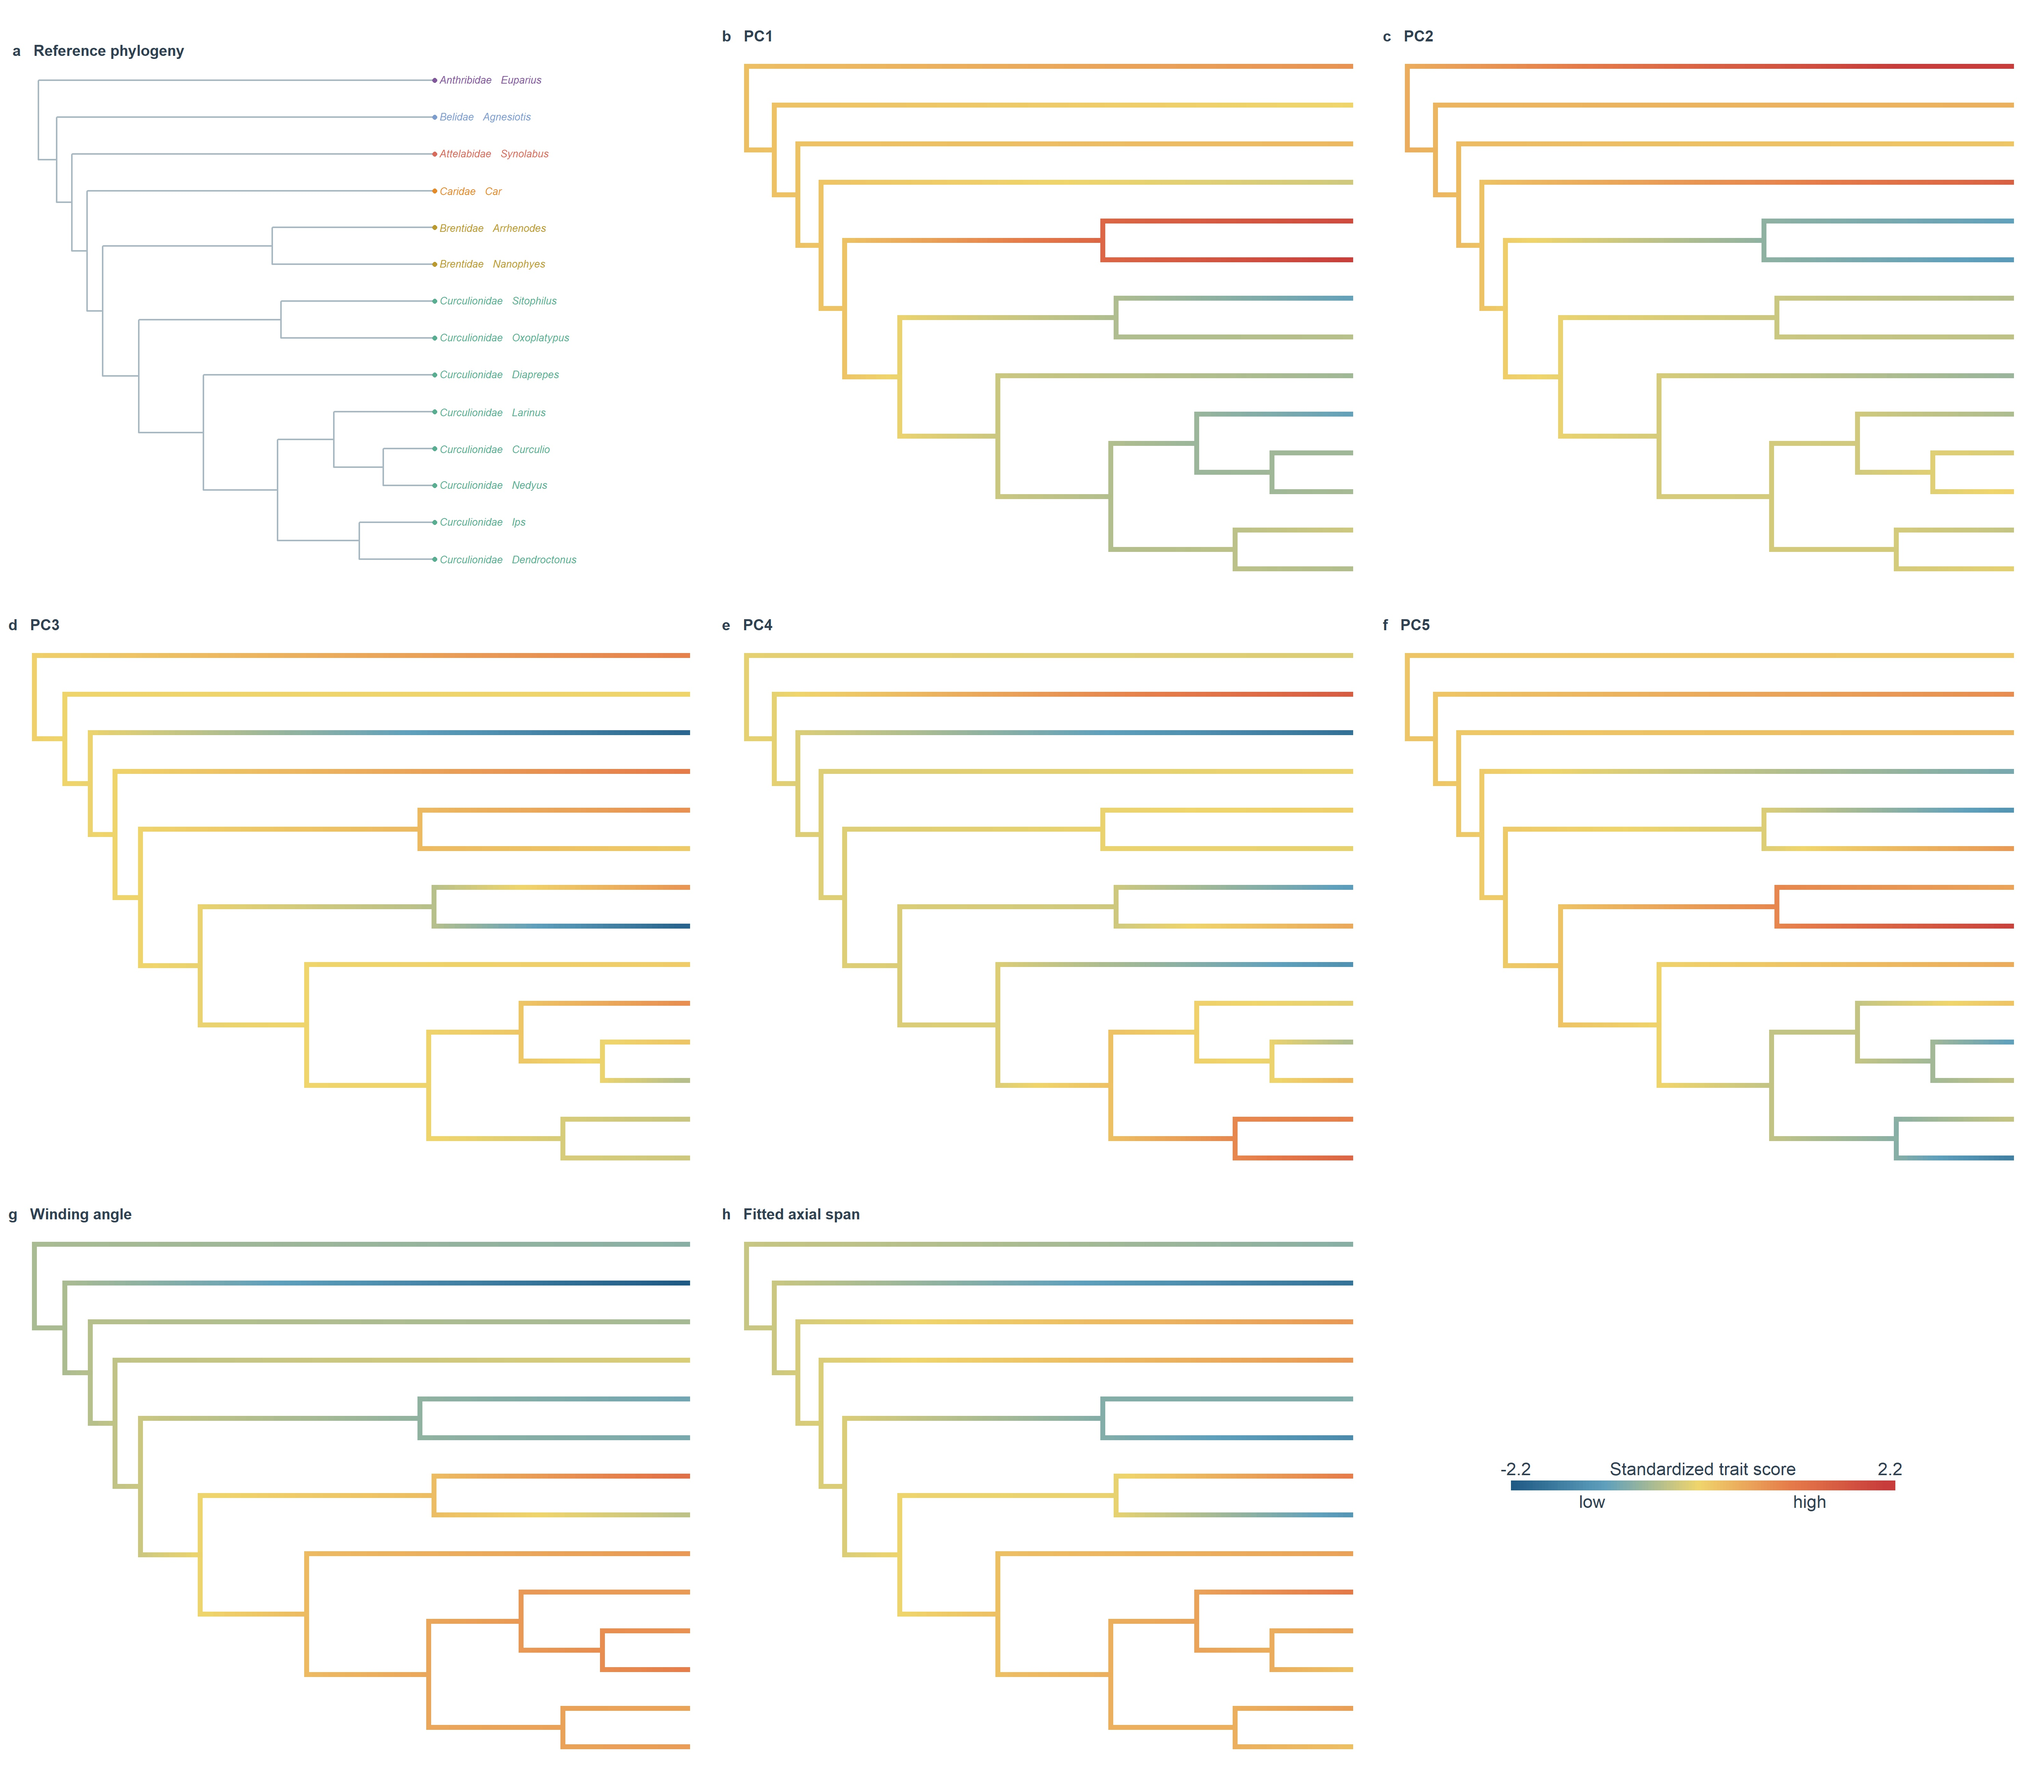
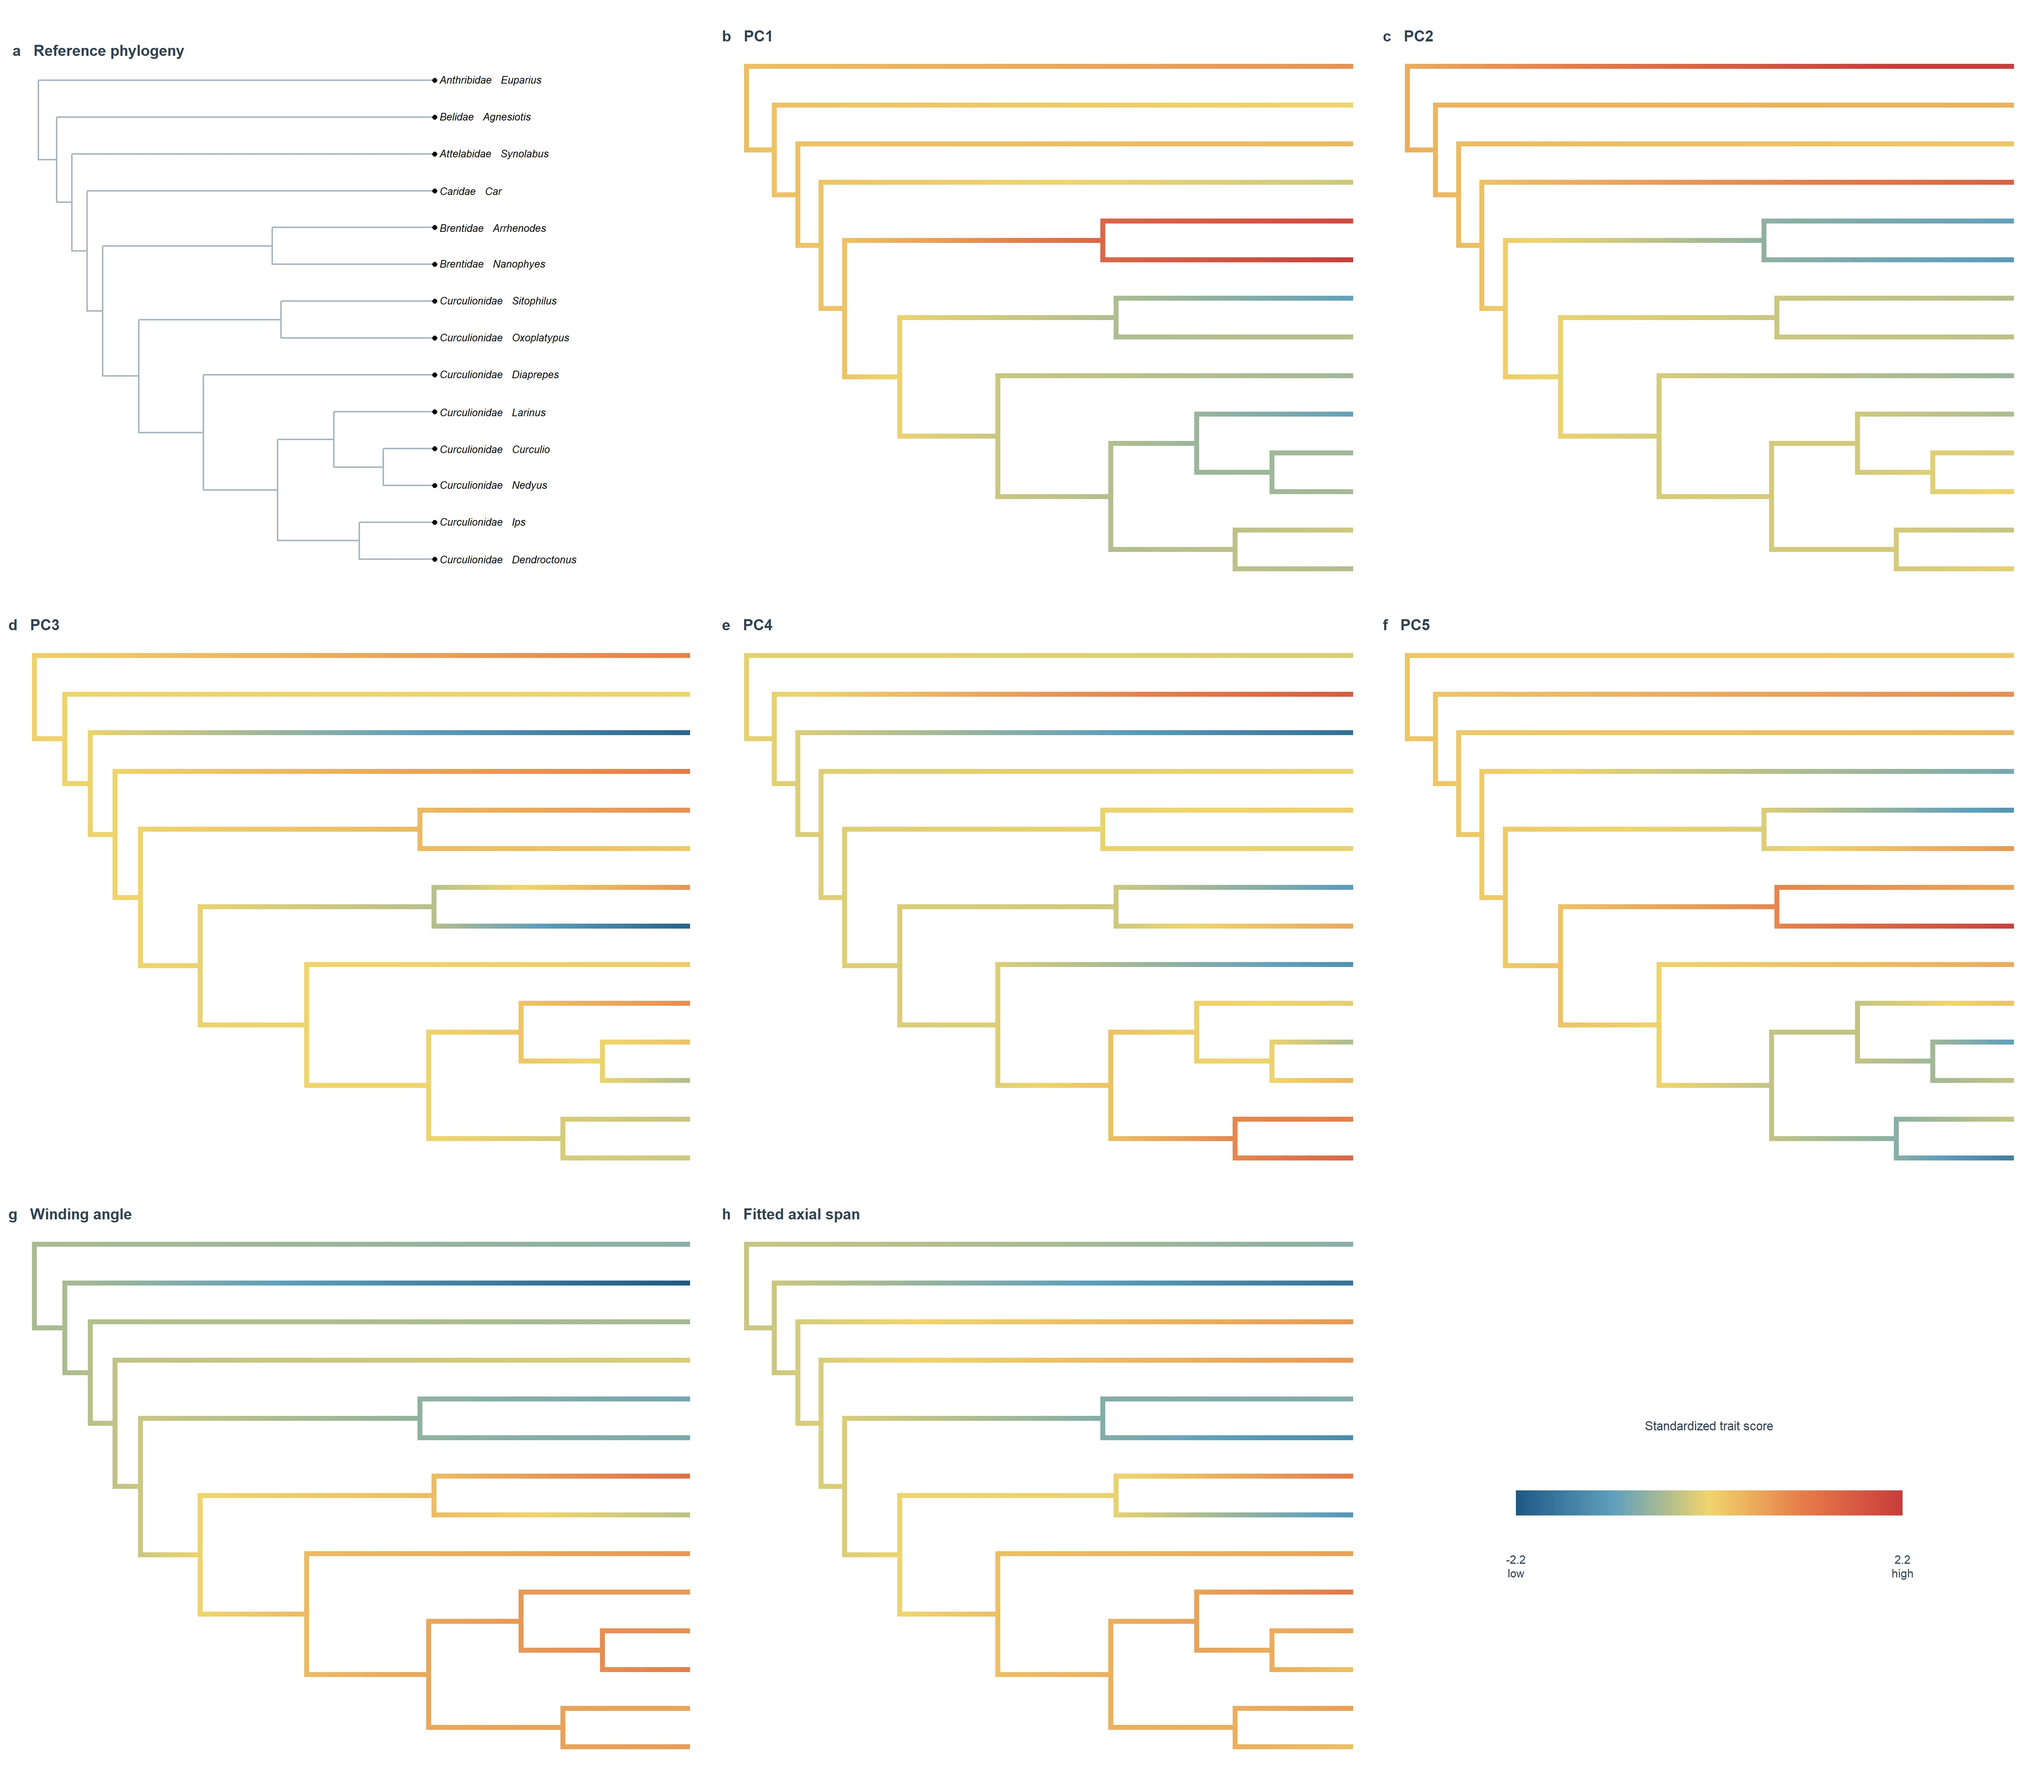
Clarify Extended Data Figure 5 colours

Changed region(s): [[0.7188, 0.8125, 0.9375, 0.875], [0.2188, 0.125, 0.25, 0.1562], [0.2188, 0.0625, 0.25, 0.0938]]

diff --git a/scripts/analysis/screw_geometry_analysis/README.md b/scripts/analysis/screw_geometry_analysis/README.md
@@ -45,7 +45,9 @@ Recommended order:
    schematic as panel a and regenerates the robust morphospace as panel b; the
    separate PC1--winding-angle regression remains in Supplementary Figure 10.
    The renderer replaces raw diagnostic plotting templates and does not alter
-   any numerical analysis results.
+   any numerical analysis results. In Extended Data Figure 5, the reference-
+   phylogeny tips in panel a are intentionally black; the continuous trait
+   palette is reserved for the ancestral-state maps in panels b--h.
 
 The downstream scripts accept input and output paths as command-line
 arguments. The shape-geometry workflow uses `<PCA CSV> <geometry CSV>
